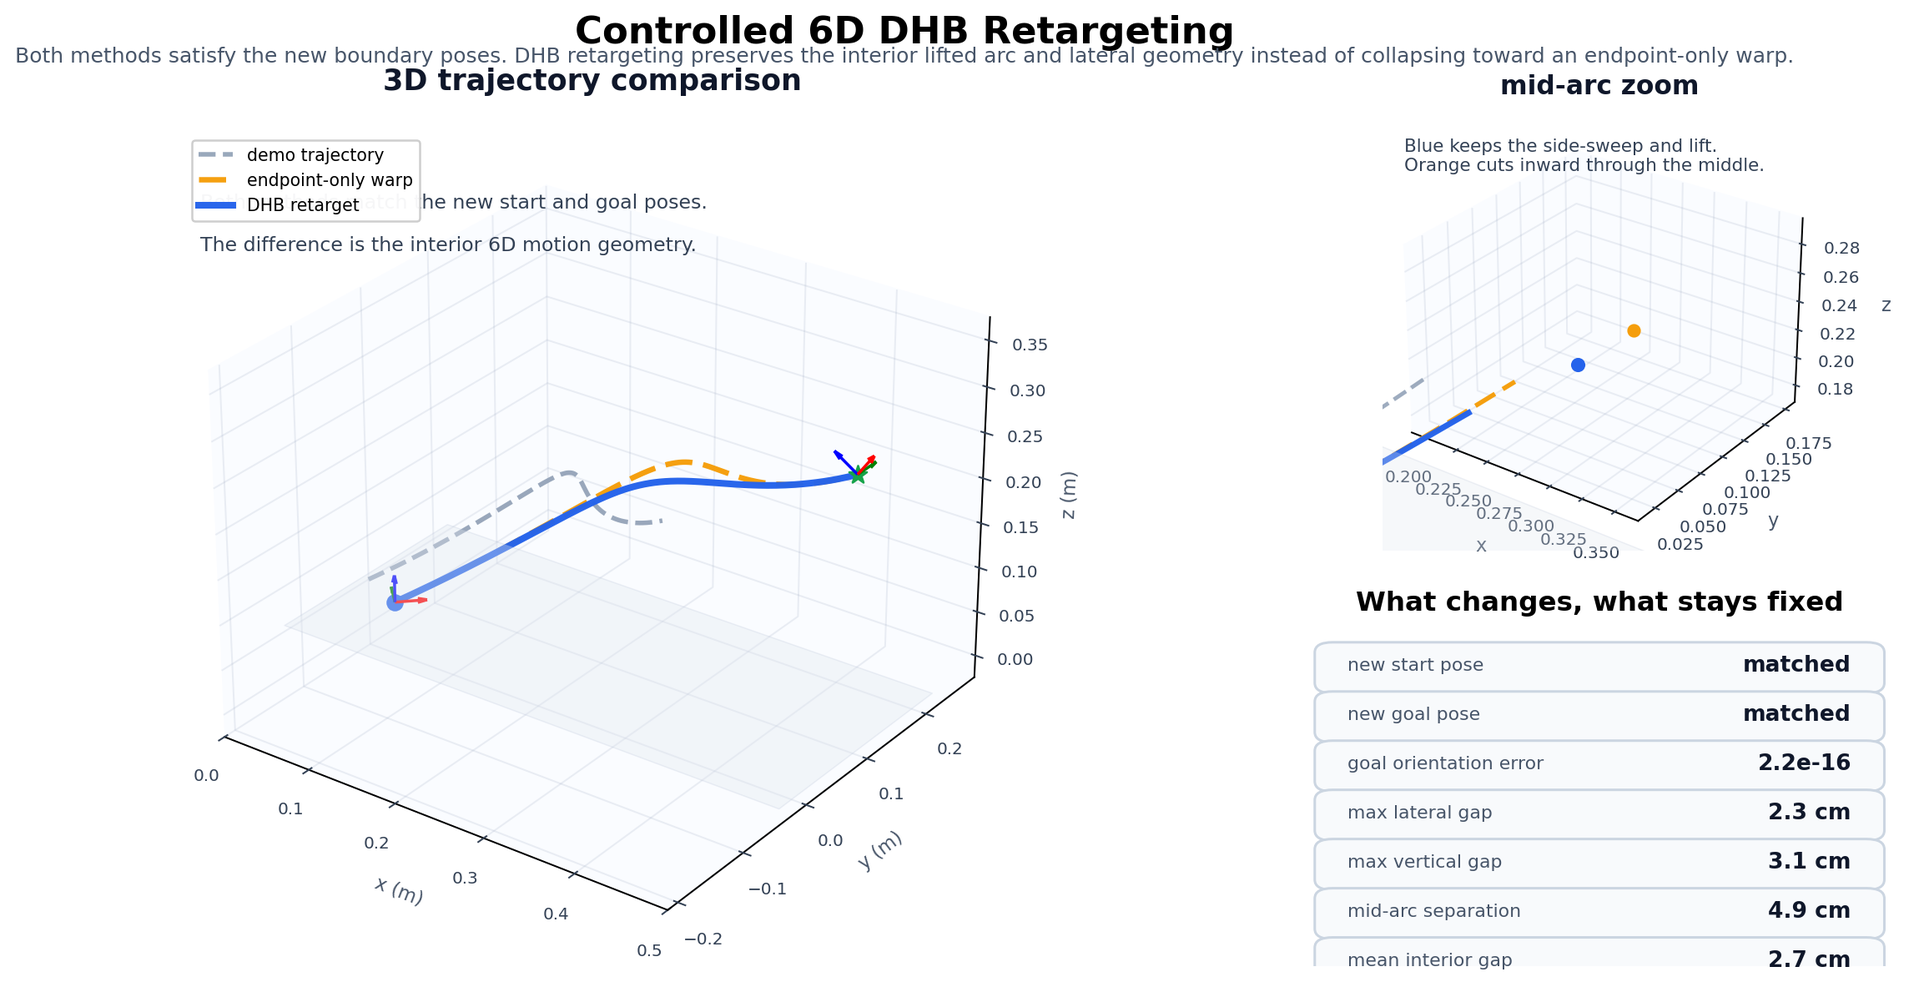
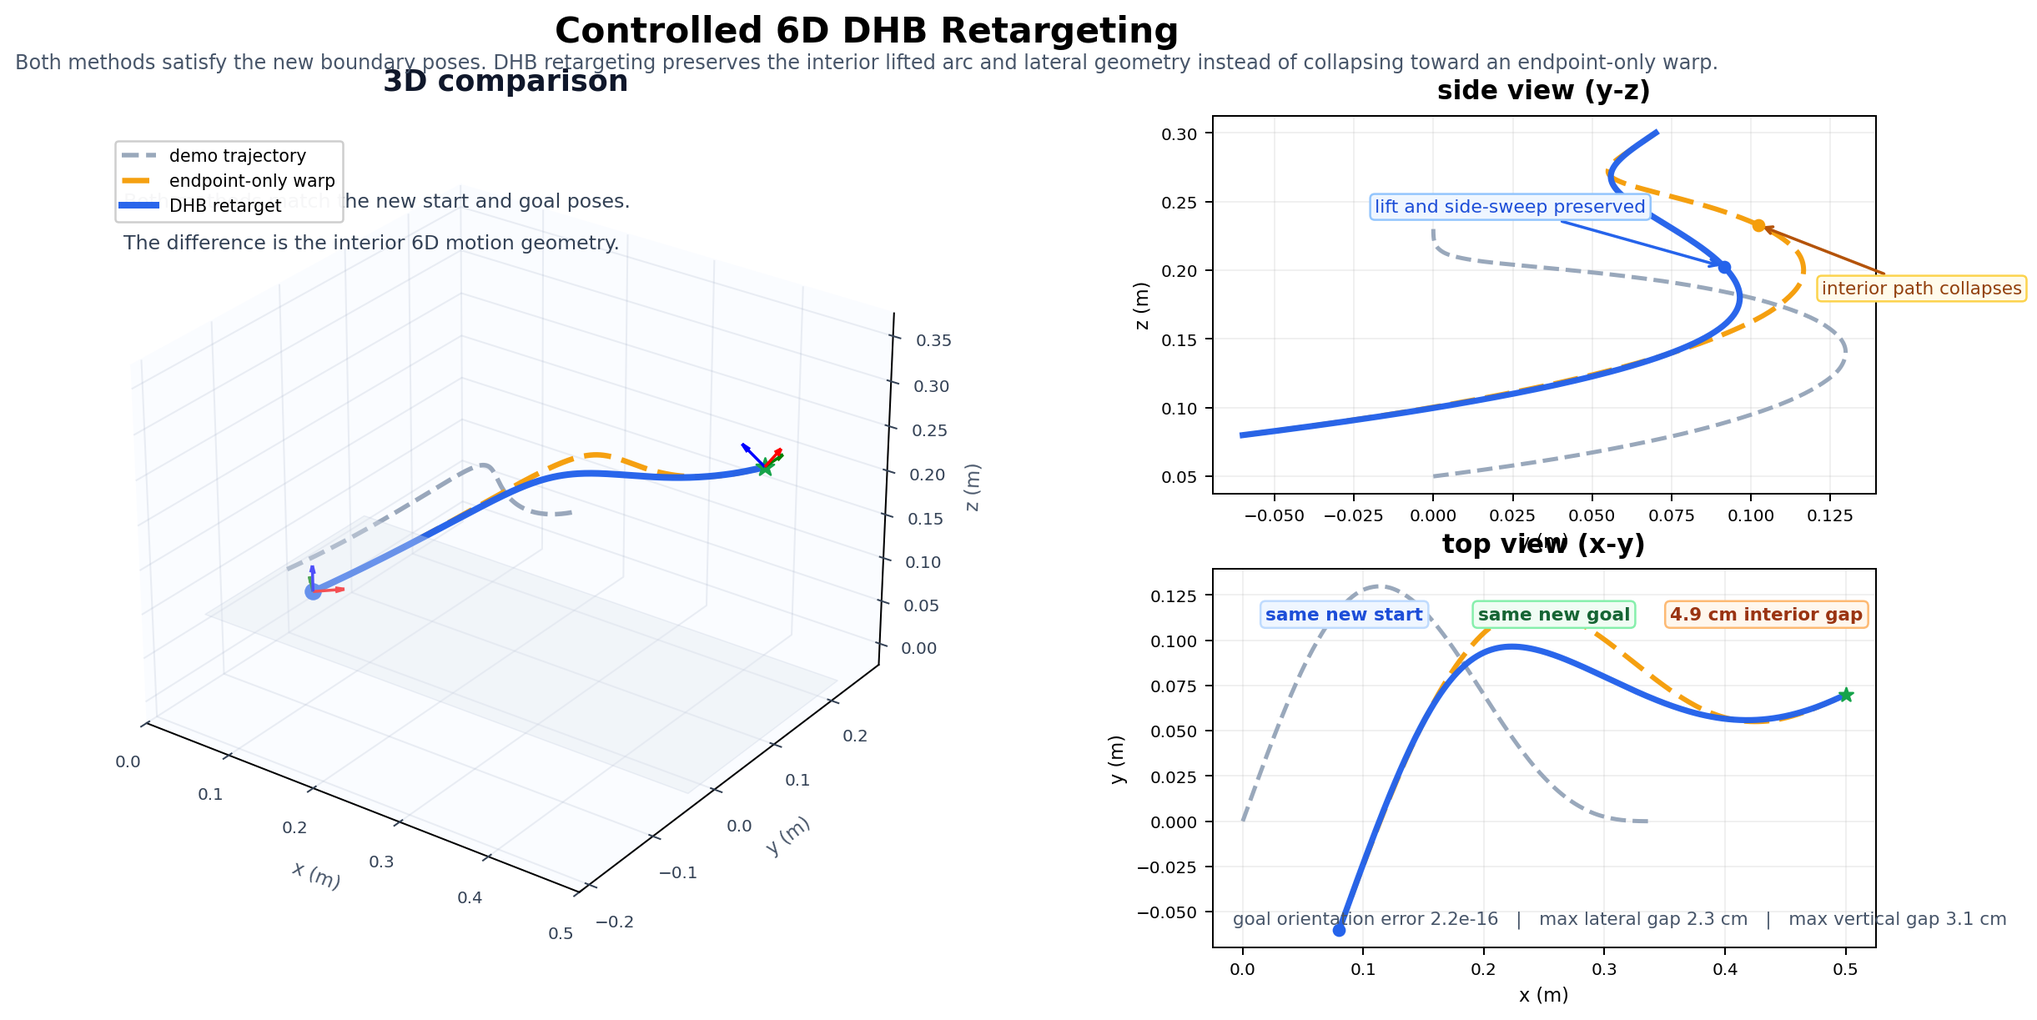
Refresh teaser and static proof visuals

diff --git a/_workspace/generate_project_page_geometry_assets.py b/_workspace/generate_project_page_geometry_assets.py
@@ -539,8 +539,8 @@ def save_fig7(payload: dict[str, np.ndarray | dict], task: TaskSpec) -> None:
     max_vertical_gap_cm = float(np.max(np.abs(fatrop_pos[:, 2] - affine_pos[:, 2])) * 100.0)
     mid_gap_cm = float(np.linalg.norm(fatrop_pos[mid_idx] - affine_pos[mid_idx]) * 100.0)
 
-    fig = plt.figure(figsize=(13.8, 7.0), facecolor="white")
-    gs = fig.add_gridspec(2, 2, width_ratios=[1.8, 0.9], height_ratios=[1.0, 0.78], wspace=0.12, hspace=0.20)
+    fig = plt.figure(figsize=(14.0, 7.1), facecolor="white")
+    gs = fig.add_gridspec(2, 2, width_ratios=[1.7, 1.0], height_ratios=[1.0, 1.0], wspace=0.16, hspace=0.20)
 
     ax_main = fig.add_subplot(gs[:, 0], projection="3d")
     set_light_3d(ax_main)
@@ -576,13 +576,17 @@ def save_fig7(payload: dict[str, np.ndarray | dict], task: TaskSpec) -> None:
     )
     ax_main.scatter(*fatrop_pos[0], c="#2563eb", s=52, marker="o", depthshade=False)
     ax_main.scatter(*fatrop_pos[-1], c="#16a34a", s=80, marker="*", depthshade=False)
-    start_rot = Rotation.from_quat([case["fatrop_quat"][0, 1], case["fatrop_quat"][0, 2], case["fatrop_quat"][0, 3], case["fatrop_quat"][0, 0]]).as_matrix()
-    goal_rot = Rotation.from_quat([case["fatrop_quat"][-1, 1], case["fatrop_quat"][-1, 2], case["fatrop_quat"][-1, 3], case["fatrop_quat"][-1, 0]]).as_matrix()
+    start_rot = Rotation.from_quat(
+        [case["fatrop_quat"][0, 1], case["fatrop_quat"][0, 2], case["fatrop_quat"][0, 3], case["fatrop_quat"][0, 0]]
+    ).as_matrix()
+    goal_rot = Rotation.from_quat(
+        [case["fatrop_quat"][-1, 1], case["fatrop_quat"][-1, 2], case["fatrop_quat"][-1, 3], case["fatrop_quat"][-1, 0]]
+    ).as_matrix()
     draw_frame(ax_main, fatrop_pos[0], start_rot, length=0.03, linewidth=1.4)
     draw_frame(ax_main, fatrop_pos[-1], goal_rot, length=0.03, linewidth=1.4)
     equalize(ax_main, all_pos)
     ax_main.view_init(elev=28, azim=-54)
-    ax_main.set_title("3D trajectory comparison", pad=12, fontsize=14, fontweight="bold")
+    ax_main.set_title("3D comparison", pad=12, fontsize=14, fontweight="bold")
     ax_main.set_xlabel("x (m)")
     ax_main.set_ylabel("y (m)")
     ax_main.set_zlabel("z (m)")
@@ -604,65 +608,78 @@ def save_fig7(payload: dict[str, np.ndarray | dict], task: TaskSpec) -> None:
         color="#334155",
     )
 
-    ax_zoom = fig.add_subplot(gs[0, 1], projection="3d")
-    set_light_3d(ax_zoom)
-    draw_reference_plane(ax_zoom, all_pos, color="#e2e8f0", alpha=0.28)
-    sl = slice(max(0, mid_idx - 8), min(len(fatrop_pos_s), mid_idx + 50))
-    ax_zoom.plot(demo_pos_s[sl, 0], demo_pos_s[sl, 1], demo_pos_s[sl, 2], color="#94a3b8", linewidth=1.9, linestyle="--", alpha=0.9)
-    ax_zoom.plot(affine_pos_s[sl, 0], affine_pos_s[sl, 1], affine_pos_s[sl, 2], color="#f59e0b", linewidth=2.2, linestyle=(0, (5, 2)), alpha=0.98)
-    ax_zoom.plot(fatrop_pos_s[sl, 0], fatrop_pos_s[sl, 1], fatrop_pos_s[sl, 2], color="#2563eb", linewidth=2.8, alpha=0.98)
-    ax_zoom.scatter(*fatrop_pos[mid_idx], c="#2563eb", s=34, depthshade=False)
-    ax_zoom.scatter(*affine_pos[mid_idx], c="#f59e0b", s=30, depthshade=False)
-    zoom_stack = np.vstack([demo_pos_s[sl], fatrop_pos_s[sl], affine_pos_s[sl]])
-    equalize(ax_zoom, zoom_stack)
-    center = (fatrop_pos[mid_idx] + affine_pos[mid_idx]) / 2.0
-    ax_zoom.set_xlim(center[0] - 0.09, center[0] + 0.09)
-    ax_zoom.set_ylim(center[1] - 0.09, center[1] + 0.09)
-    ax_zoom.set_zlim(center[2] - 0.05, center[2] + 0.08)
-    ax_zoom.view_init(elev=28, azim=-54)
-    ax_zoom.set_title("mid-arc zoom", pad=10, fontsize=12.5, fontweight="bold")
-    ax_zoom.set_xlabel("x")
-    ax_zoom.set_ylabel("y")
-    ax_zoom.set_zlabel("z")
-    ax_zoom.text2D(
-        0.05,
-        0.87,
-        "Blue keeps the side-sweep and lift.\nOrange cuts inward through the middle.",
-        transform=ax_zoom.transAxes,
+    ax_side = fig.add_subplot(gs[0, 1])
+    ax_side.plot(demo_pos_s[:, 1], demo_pos_s[:, 2], color="#94a3b8", linewidth=2.0, linestyle="--", alpha=0.95, label="demo")
+    ax_side.plot(
+        affine_pos_s[:, 1],
+        affine_pos_s[:, 2],
+        color="#f59e0b",
+        linewidth=2.4,
+        linestyle=(0, (5, 2)),
+        alpha=0.98,
+        label="endpoint-only warp",
+    )
+    ax_side.plot(fatrop_pos_s[:, 1], fatrop_pos_s[:, 2], color="#2563eb", linewidth=2.9, alpha=0.98, label="DHB retarget")
+    ax_side.scatter(fatrop_pos[mid_idx, 1], fatrop_pos[mid_idx, 2], c="#2563eb", s=28, zorder=5)
+    ax_side.scatter(affine_pos[mid_idx, 1], affine_pos[mid_idx, 2], c="#f59e0b", s=28, zorder=5)
+    ax_side.annotate(
+        "lift and side-sweep preserved",
+        xy=(fatrop_pos[mid_idx, 1], fatrop_pos[mid_idx, 2]),
+        xytext=(fatrop_pos[mid_idx, 1] - 0.11, fatrop_pos[mid_idx, 2] + 0.04),
+        arrowprops=dict(arrowstyle="->", color="#2563eb", lw=1.4),
+        fontsize=8.8,
+        color="#1d4ed8",
+        bbox=dict(boxstyle="round,pad=0.25", facecolor="#eff6ff", edgecolor="#93c5fd"),
+    )
+    ax_side.annotate(
+        "interior path collapses",
+        xy=(affine_pos[mid_idx, 1], affine_pos[mid_idx, 2]),
+        xytext=(affine_pos[mid_idx, 1] + 0.02, affine_pos[mid_idx, 2] - 0.05),
+        arrowprops=dict(arrowstyle="->", color="#b45309", lw=1.4),
         fontsize=8.6,
-        color="#334155",
+        color="#92400e",
+        bbox=dict(boxstyle="round,pad=0.25", facecolor="#fffbeb", edgecolor="#fcd34d"),
+    )
+    ax_side.set_title("side view (y-z)", fontsize=12.5, fontweight="bold", pad=8)
+    ax_side.set_xlabel("y (m)")
+    ax_side.set_ylabel("z (m)")
+    ax_side.grid(alpha=0.18)
+
+    ax_top = fig.add_subplot(gs[1, 1])
+    ax_top.plot(demo_pos_s[:, 0], demo_pos_s[:, 1], color="#94a3b8", linewidth=2.0, linestyle="--", alpha=0.95)
+    ax_top.plot(affine_pos_s[:, 0], affine_pos_s[:, 1], color="#f59e0b", linewidth=2.4, linestyle=(0, (5, 2)), alpha=0.98)
+    ax_top.plot(fatrop_pos_s[:, 0], fatrop_pos_s[:, 1], color="#2563eb", linewidth=2.9, alpha=0.98)
+    ax_top.scatter(fatrop_pos[0, 0], fatrop_pos[0, 1], c="#2563eb", s=28, zorder=5)
+    ax_top.scatter(fatrop_pos[-1, 0], fatrop_pos[-1, 1], c="#16a34a", s=48, marker="*", zorder=5)
+    ax_top.set_title("top view (x-y)", fontsize=12.5, fontweight="bold", pad=8)
+    ax_top.set_xlabel("x (m)")
+    ax_top.set_ylabel("y (m)")
+    ax_top.grid(alpha=0.18)
+    ax_top.text(0.08, 0.88, "same new start", transform=ax_top.transAxes, ha="left", va="center", fontsize=8.7, color="#1d4ed8", fontweight="bold", bbox=dict(boxstyle="round,pad=0.28", facecolor="#eff6ff", edgecolor="#bfdbfe"))
+    ax_top.text(0.40, 0.88, "same new goal", transform=ax_top.transAxes, ha="left", va="center", fontsize=8.7, color="#166534", fontweight="bold", bbox=dict(boxstyle="round,pad=0.28", facecolor="#f0fdf4", edgecolor="#86efac"))
+    ax_top.text(0.69, 0.88, f"{mid_gap_cm:.1f} cm interior gap", transform=ax_top.transAxes, ha="left", va="center", fontsize=8.6, color="#9a3412", fontweight="bold", bbox=dict(boxstyle="round,pad=0.28", facecolor="#fff7ed", edgecolor="#fdba74"))
+    ax_top.text(
+        0.03,
+        0.05,
+        f"goal orientation error {case['goal_quat_error']:.1e}   |   max lateral gap {max_lateral_gap_cm:.1f} cm   |   max vertical gap {max_vertical_gap_cm:.1f} cm",
+        transform=ax_top.transAxes,
+        ha="left",
+        va="bottom",
+        fontsize=8.6,
+        color="#475569",
     )
 
-    ax_m = fig.add_subplot(gs[1, 1])
-    ax_m.axis("off")
-    ax_m.set_title("What changes, what stays fixed", fontsize=13, fontweight="bold", pad=8)
-    metric_lines = [
-        ("new start pose", "matched"),
-        ("new goal pose", "matched"),
-        ("goal orientation error", f"{case['goal_quat_error']:.1e}"),
-        ("max lateral gap", f"{max_lateral_gap_cm:.1f} cm"),
-        ("max vertical gap", f"{max_vertical_gap_cm:.1f} cm"),
-        ("mid-arc separation", f"{mid_gap_cm:.1f} cm"),
-        ("mean interior gap", f"{case['mean_deviation_cm']:.1f} cm"),
-    ]
-    y = 0.93
-    for label, value in metric_lines:
-        draw_round_box(ax_m, (0.04, y - 0.11), (0.92, 0.12), "#f8fafc", ec="#cbd5e1")
-        ax_m.text(0.08, y - 0.045, label, transform=ax_m.transAxes, ha="left", va="center", fontsize=8.8, color="#475569")
-        ax_m.text(0.92, y - 0.045, value, transform=ax_m.transAxes, ha="right", va="center", fontsize=10.6, color="#0f172a", fontweight="bold")
-        y -= 0.145
-
-    fig.suptitle("Controlled 6D DHB Retargeting", fontsize=18, fontweight="bold", y=0.985)
+    fig.suptitle("Controlled 6D DHB Retargeting", fontsize=17, fontweight="bold", y=0.955)
     fig.text(
         0.5,
-        0.945,
+        0.91,
         "Both methods satisfy the new boundary poses. DHB retargeting preserves the interior lifted arc and lateral geometry instead of collapsing toward an endpoint-only warp.",
         ha="center",
         va="center",
-        fontsize=10,
+        fontsize=9.6,
         color="#475569",
     )
-    fig.subplots_adjust(top=0.89, left=0.06, right=0.98, bottom=0.08)
+    fig.subplots_adjust(top=0.86, left=0.06, right=0.98, bottom=0.08)
     fig.savefig(FIG7_PATH, facecolor="white", bbox_inches="tight")
     plt.close(fig)
 
@@ -848,109 +865,127 @@ def save_teaser(payload: dict[str, np.ndarray | dict], task: TaskSpec) -> None:
     raw_replay = payload["raw_replay"]
     demo_shifted = payload["demo_shifted"]
     regions = payload["regions"]
+    case = build_controlled_6d_case()
+    _, demo_pos_s = smooth_curve(case["demo_pos"])
+    _, fatrop_pos_s = smooth_curve(case["fatrop_pos"])
+    _, affine_pos_s = smooth_curve(case["affine_pos"])
 
-    fig = plt.figure(figsize=(14.5, 5.1), facecolor="white")
-    outer = fig.add_gridspec(1, 3, width_ratios=[1.25, 0.95, 1.05], wspace=0.22)
+    fig = plt.figure(figsize=(14.6, 5.6), facecolor="white")
+    outer = fig.add_gridspec(1, 3, width_ratios=[1.1, 0.95, 1.15], wspace=0.20)
 
     axA = fig.add_subplot(outer[0, 0])
-    axA.set_title("(a) Scene-grounded geometric retargeting", fontsize=16, fontweight="bold", pad=10)
+    axA.set_title("1. Standard tokens drift", fontsize=15, fontweight="bold", pad=10)
     for name, color, label, alpha in [
-        (task.context_region, CONTEXT, "context", 0.14),
-        (task.source_region, SOURCE, "source bowl", 0.16),
-        (task.target_region, TARGET, "target plate", 0.16),
+        (task.context_region, CONTEXT, "context", 0.12),
+        (task.source_region, SOURCE, "source", 0.15),
+        (task.target_region, TARGET, "target", 0.15),
     ]:
         if not name or name not in regions:
             continue
         x0, y0, x1, y1 = regions[name]["bounds"]
-        rect = plt.Rectangle((x0, y0), x1 - x0, y1 - y0, facecolor=color, edgecolor=color, alpha=alpha, linewidth=1.6)
-        axA.add_patch(rect)
-        axA.text((x0 + x1) / 2, y1 + 0.014, label, color=color, fontsize=9, ha="center")
-    axA.plot(raw_replay[:, 0], raw_replay[:, 1], color="#cbd5e1", linewidth=2.5, linestyle="--", label="raw replay")
-    axA.plot(adapted_pos[:, 0], adapted_pos[:, 1], color=DHB, linewidth=3.2, label="DHB adapted")
-    axA.plot(demo_shifted[:, 0], demo_shifted[:, 1], color="#16a34a", linewidth=2.2, linestyle=":", label="translated demo")
-    axA.scatter(*adapted_pos[0, :2], c=SOURCE, s=70, zorder=5)
-    axA.scatter(*adapted_pos[-1, :2], c=TARGET, s=110, marker="*", zorder=5)
-    axA.annotate(
-        "new scene placement",
-        xy=adapted_pos[0, :2],
-        xytext=(adapted_pos[0, 0] - 0.02, adapted_pos[0, 1] - 0.035),
-        arrowprops=dict(arrowstyle="->", color="#334155", lw=1.5),
-        fontsize=9,
-        color="#334155",
-    )
-    axA.text(
-        0.02,
-        0.04,
-        "Real LIBERO bowl-to-plate demo,\nused here as an exact translation diagnostic",
-        transform=axA.transAxes,
-        fontsize=9,
-        color="#334155",
-        ha="left",
-        va="bottom",
-        bbox=dict(boxstyle="round,pad=0.25", facecolor="#f8fafc", edgecolor="#cbd5e1"),
-    )
+        axA.add_patch(plt.Rectangle((x0, y0), x1 - x0, y1 - y0, facecolor=color, edgecolor=color, alpha=alpha, linewidth=1.4))
+        axA.text((x0 + x1) / 2, y1 + 0.012, label, color=color, fontsize=8.5, ha="center")
+    axA.plot(raw_replay[:, 0], raw_replay[:, 1], color="#94a3b8", linewidth=2.2, linestyle="--", alpha=0.9, label="original workspace")
+    axA.plot(demo_shifted[:, 0], demo_shifted[:, 1], color="#ef4444", linewidth=2.4, alpha=0.9, label="shifted workspace")
+    axA.scatter(*raw_replay[0, :2], c="#94a3b8", s=28, zorder=5)
+    axA.scatter(*demo_shifted[0, :2], c="#ef4444", s=28, zorder=5)
     axA.set_xlabel("x (m)")
     axA.set_ylabel("y (m)")
     axA.grid(alpha=0.18)
-    axA.legend(loc="lower left", fontsize=8, framealpha=0.95)
     axA.set_aspect("equal", adjustable="box")
+    axA.legend(loc="lower left", fontsize=7.2, framealpha=0.95)
+    axA.text(0.30, 0.885, "18–94% token change", transform=axA.transAxes, ha="center", va="center", fontsize=10.2, color="#b91c1c", fontweight="bold", bbox=dict(boxstyle="round,pad=0.35", facecolor="#fef2f2", edgecolor="#fecaca"))
+    axA.text(0.30, 0.835, "raw coords and delta-EEF drift", transform=axA.transAxes, ha="center", va="center", fontsize=8.3, color="#7f1d1d")
+    axA.text(
+        0.03,
+        0.04,
+        "Moving the workspace changes the action targets\nunless the representation is invariant.",
+        transform=axA.transAxes,
+        fontsize=8.8,
+        color="#334155",
+        ha="left",
+        va="bottom",
+    )
 
-    innerB = outer[0, 1].subgridspec(2, 1, hspace=0.34)
-    axB1 = fig.add_subplot(innerB[0, 0])
-    axB1.set_title("(b) Stable tokens, better compression", fontsize=16, fontweight="bold", pad=10)
-    labels = ["FAST raw", "delta-EEF", "DHB + FAST"]
-    instability = [93.9, 18.2, 0.0]
-    colors = ["#ef4444", "#f59e0b", "#22c55e"]
-    bars = axB1.bar(labels, instability, color=colors, width=0.62)
-    axB1.set_ylabel("% token IDs changed")
-    axB1.set_ylim(0, 100)
-    axB1.axhline(0, color="#64748b", linewidth=0.8)
-    axB1.grid(axis="y", alpha=0.2)
-    for bar, val in zip(bars, instability):
-        axB1.text(bar.get_x() + bar.get_width() / 2, val + 3, f"{val:.1f}%", ha="center", va="bottom", fontsize=9, fontweight="bold")
-    axB1.text(0.98, 0.92, "40 random SE(3) transforms", transform=axB1.transAxes, ha="right", va="top", fontsize=8, color="#475569")
+    innerB = outer[0, 1].subgridspec(3, 1, height_ratios=[0.9, 0.9, 1.1], hspace=0.22)
+    axB0 = fig.add_subplot(innerB[0, 0])
+    axB0.axis("off")
+    axB0.set_title("2. DHB encodes motion shape", fontsize=15, fontweight="bold", pad=10)
+    draw_round_box(axB0, (0.06, 0.50), (0.30, 0.24), "#e2e8f0", text="demo trajectory", text_color="#0f172a", fontsize=11)
+    draw_round_box(axB0, (0.42, 0.46), (0.20, 0.32), "#dbeafe", text="DHB\nframes", text_color="#1d4ed8", fontsize=12)
+    draw_round_box(axB0, (0.69, 0.50), (0.24, 0.24), "#dcfce7", text="tokens", text_color="#166534", fontsize=11)
+    arrow_kw = dict(arrowstyle="-|>", lw=1.6, color="#64748b")
+    axB0.annotate("", xy=(0.42, 0.62), xytext=(0.36, 0.62), arrowprops=arrow_kw)
+    axB0.annotate("", xy=(0.69, 0.62), xytext=(0.62, 0.62), arrowprops=arrow_kw)
 
-    axB2 = fig.add_subplot(innerB[1, 0])
-    comp_labels = ["FAST raw", "DHB + FAST", "DHB + OAT"]
-    compression = [20.4, 49.8, 10.0]
-    comp_colors = ["#94a3b8", "#2563eb", "#7c3aed"]
-    bars2 = axB2.bar(comp_labels, compression, color=comp_colors, width=0.62)
-    axB2.set_ylabel("compression ratio")
-    axB2.grid(axis="y", alpha=0.2)
-    axB2.set_ylim(0, 56)
-    for bar, val in zip(bars2, compression):
-        axB2.text(bar.get_x() + bar.get_width() / 2, val + 1.1, f"{val:.1f}x", ha="center", va="bottom", fontsize=9, fontweight="bold")
-    axB2.text(0.03, 0.93, "Same skill, fewer tokens", transform=axB2.transAxes, ha="left", va="top", fontsize=8, color="#475569")
+    axB1 = fig.add_subplot(innerB[1, 0])
+    axB1.set_facecolor("#f8fafc")
+    lin = np.asarray([0.18, 0.30, 0.44, 0.56, 0.51, 0.39, 0.28, 0.22])
+    ang = np.asarray([0.12, 0.18, 0.27, 0.34, 0.36, 0.31, 0.24, 0.17])
+    axB1.imshow(lin[None, :], cmap="Blues", aspect="auto", extent=[0, 8, 0.55, 0.90], vmin=0.0, vmax=0.60)
+    axB1.imshow(ang[None, :], cmap="Greens", aspect="auto", extent=[0, 8, 0.10, 0.45], vmin=0.0, vmax=0.45)
+    for x in range(9):
+        axB1.axvline(x, color="white", linewidth=1.0, alpha=0.9)
+    axB1.text(0.15, 0.73, "linear speed invariants", color="#1d4ed8", fontsize=9.2, fontweight="bold")
+    axB1.text(0.15, 0.27, "angular speed invariants", color="#166534", fontsize=9.2, fontweight="bold")
+    axB1.set_xlim(0, 8)
+    axB1.set_ylim(0, 1)
+    axB1.set_xticks([])
+    axB1.set_yticks([])
+    for spine in axB1.spines.values():
+        spine.set_visible(False)
 
-    axC = fig.add_subplot(outer[0, 2])
-    axC.set_title("(c) State-aware DHB action decoding", fontsize=16, fontweight="bold", pad=10)
-    axC.set_xlim(0, 1)
-    axC.set_ylim(0, 1)
-    axC.axis("off")
-    axC.text(0.03, 0.92, "Instead of regressing delta actions directly,", fontsize=10, color="#334155", ha="left")
-    axC.text(0.03, 0.87, "predict invariant motion then decode relative to the current EE state.", fontsize=10, color="#334155", ha="left")
+    axB2 = fig.add_subplot(innerB[2, 0])
+    axB2.axis("off")
+    draw_round_box(axB2, (0.06, 0.54), (0.38, 0.25), "#ecfdf5", ec="#86efac")
+    axB2.text(0.25, 0.67, "0.0% token change", ha="center", va="center", fontsize=13, color="#166534", fontweight="bold")
+    axB2.text(0.25, 0.58, "stable under SE(3)", ha="center", va="center", fontsize=8.8, color="#166534")
+    draw_round_box(axB2, (0.54, 0.54), (0.34, 0.25), "#eff6ff", ec="#bfdbfe")
+    axB2.text(0.71, 0.67, "49.8×", ha="center", va="center", fontsize=13, color="#1d4ed8", fontweight="bold")
+    axB2.text(0.71, 0.58, "compression with FAST", ha="center", va="center", fontsize=8.8, color="#1d4ed8")
+    axB2.text(
+        0.06,
+        0.18,
+        "DHB removes workspace pose from the token target,\nso the same skill stays token-identical after rigid transforms.",
+        ha="left",
+        va="bottom",
+        fontsize=8.8,
+        color="#334155",
+    )
 
-    draw_round_box(axC, (0.05, 0.68), (0.27, 0.12), "#e2e8f0", text="obs + language", text_color="#0f172a")
-    draw_round_box(axC, (0.37, 0.68), (0.22, 0.12), "#dbeafe", text="DHB tokens", text_color="#1d4ed8")
-    draw_round_box(axC, (0.64, 0.68), (0.27, 0.12), "#dcfce7", text="current EE state", text_color="#166534")
-    draw_round_box(axC, (0.21, 0.46), (0.56, 0.12), "#ede9fe", text="DHBActionHead predicts invariant motion pattern", text_color="#5b21b6", fontsize=10)
-    draw_round_box(axC, (0.25, 0.23), (0.48, 0.12), "#eff6ff", text="decode relative to present robot pose", text_color="#1d4ed8", fontsize=10)
-    draw_round_box(axC, (0.33, 0.05), (0.34, 0.10), "#f8fafc", ec="#cbd5e1", text="robot action", text_color="#0f172a", fontsize=11)
+    axC = fig.add_subplot(outer[0, 2], projection="3d")
+    set_light_3d(axC)
+    draw_reference_plane(axC, np.vstack([demo_pos_s, fatrop_pos_s, affine_pos_s]), color="#e2e8f0", alpha=0.35)
+    axC.set_title("3. Decode from a new state", fontsize=15, fontweight="bold", pad=10)
+    axC.plot(demo_pos_s[:, 0], demo_pos_s[:, 1], demo_pos_s[:, 2], color="#94a3b8", linewidth=2.0, linestyle="--", alpha=0.9)
+    axC.plot(affine_pos_s[:, 0], affine_pos_s[:, 1], affine_pos_s[:, 2], color="#f59e0b", linewidth=2.3, linestyle=(0, (5, 2)), alpha=0.96)
+    axC.plot(fatrop_pos_s[:, 0], fatrop_pos_s[:, 1], fatrop_pos_s[:, 2], color="#2563eb", linewidth=3.0, alpha=0.98)
+    axC.scatter(*case["fatrop_pos"][0], c="#2563eb", s=38, depthshade=False)
+    axC.scatter(*case["fatrop_pos"][-1], c="#16a34a", s=62, marker="*", depthshade=False)
+    equalize(axC, np.vstack([demo_pos_s, fatrop_pos_s, affine_pos_s]))
+    axC.view_init(elev=28, azim=-54)
+    axC.set_xlabel("")
+    axC.set_ylabel("")
+    axC.set_zlabel("")
+    axC.set_xticks([])
+    axC.set_yticks([])
+    axC.set_zticks([])
+    axC.text2D(0.05, 0.88, "same endpoints", transform=axC.transAxes, fontsize=9.6, color="#334155")
+    axC.text2D(0.05, 0.82, "different interior path", transform=axC.transAxes, fontsize=9.6, color="#334155")
+    axC.text2D(0.05, 0.12, "DHB preserves interior geometry", transform=axC.transAxes, fontsize=9.0, color="#1d4ed8", fontweight="bold")
+    axC.text2D(0.05, 0.07, "endpoint-only warping collapses the middle", transform=axC.transAxes, fontsize=8.4, color="#92400e")
 
-    arrow_kw = dict(arrowstyle="-|>", lw=1.7, color="#64748b")
-    axC.annotate("", xy=(0.49, 0.58), xytext=(0.19, 0.68), arrowprops=arrow_kw)
-    axC.annotate("", xy=(0.49, 0.58), xytext=(0.48, 0.68), arrowprops=arrow_kw)
-    axC.annotate("", xy=(0.49, 0.58), xytext=(0.78, 0.68), arrowprops=arrow_kw)
-    axC.annotate("", xy=(0.49, 0.35), xytext=(0.49, 0.46), arrowprops=arrow_kw)
-    axC.annotate("", xy=(0.50, 0.15), xytext=(0.49, 0.23), arrowprops=arrow_kw)
-
-    draw_round_box(axC, (0.69, 0.25), (0.24, 0.15), "#f8fafc", ec="#bfdbfe")
-    axC.text(0.81, 0.355, "Current readout", ha="center", va="center", fontsize=9, color="#1e3a8a", fontweight="bold")
-    axC.text(0.81, 0.315, "SmolVLA + DHB head", ha="center", va="center", fontsize=8, color="#334155")
-    axC.text(0.81, 0.272, "2/3 @ 0 cm", ha="center", va="center", fontsize=12, color="#059669", fontweight="bold")
-    axC.text(0.81, 0.235, "1/3 @ +3 cm", ha="center", va="center", fontsize=9, color="#475569")
-
-    fig.suptitle("DHB-XR: learn and tokenize motion shape without tying it to one workspace pose", fontsize=20, fontweight="bold", y=0.985)
+    fig.suptitle("DHB-XR separates motion shape from workspace pose", fontsize=18, fontweight="bold", y=0.95)
+    fig.text(
+        0.5,
+        0.90,
+        "Standard token targets drift under rigid transforms. DHB invariants stay fixed and decode into the same 6-DOF motion pattern from a new state.",
+        ha="center",
+        va="center",
+        fontsize=9.5,
+        color="#475569",
+    )
+    fig.subplots_adjust(top=0.82, bottom=0.12, left=0.05, right=0.98)
     fig.savefig(TEASER_PATH, facecolor="white", bbox_inches="tight")
     plt.close(fig)
 
